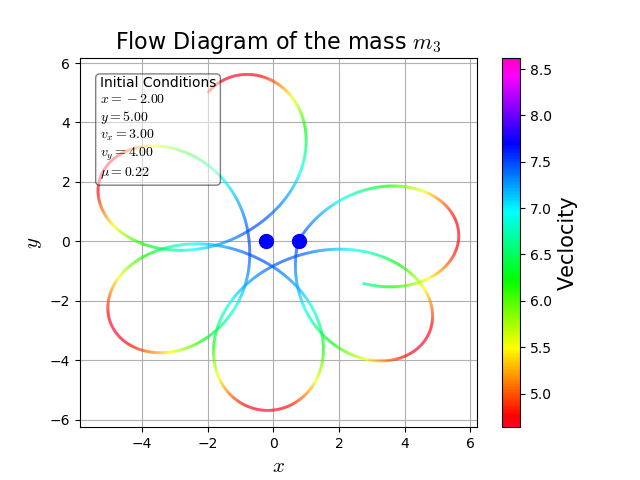
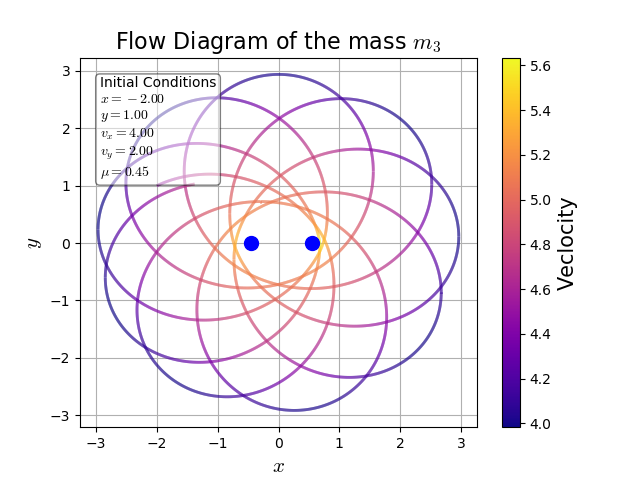
Added time step modifier

diff --git a/Code/Lagrange_GUI.py b/Code/Lagrange_GUI.py
@@ -13,7 +13,9 @@ from tkinter.filedialog import *
 import tkinter.messagebox
 
 cmaps = ['plasma', 'rainbow', 'gist_rainbow']
-cmapType = cmaps[2]
+cmapType = cmaps[0]
+defailtTimeVal = 20
+defailtTimeStepVal = 0.001
 
 class GUI:
     def __init__(self, root):
@@ -108,9 +110,18 @@ class GUI:
 
         global timeVal
         timeVal = StringVar()
-        self.timeVal = ttk.Entry(self.inputFrame, width=10, textvariable=timeVal)
+        self.timeVal = ttk.Entry(self.inputFrame, width=7, textvariable=timeVal)
         self.timeVal.grid(column=1, row=7, padx=(0, 0), sticky=W, pady=(0, 5))
-        timeVal.set(20)
+        timeVal.set(defailtTimeVal)
+
+        self.timeStepLabel = Label(self.inputFrame, text="Step:")
+        self.timeStepLabel.grid(column=1, row=7, padx=(0, 0), pady=(0, 5))
+
+        global timeStepVal
+        timeStepVal = StringVar()
+        self.timeStepVal = ttk.Entry(self.inputFrame, width=7, textvariable=timeStepVal)
+        self.timeStepVal.grid(column=1, row=7, padx=(85, 0), sticky=W, pady=(0, 5))
+        timeStepVal.set(defailtTimeStepVal)
 
         self.PlotNumLabel = Label(self.inputFrame, text="Plots:")
         self.PlotNumLabel.grid(column=0, row=8, padx=(0, 0), pady=(0, 5))
@@ -144,77 +155,95 @@ class GUI:
 
 
     def PlotRandom(self):
-        try:
-            for plot in range(1, int(self.plotNum.get()) + 1):
-                if xHold.get() == 0:
-                    x = random.randint(-5, 5)
-                else:
-                    x = float(self.xVal.get())
-
-                if yHold.get() == 0:
-                    y = random.randint(-5, 5)
-                else:
-                    y = float(self.yVal.get())
-
-                if vxHold.get() == 0:
-                    vx = random.randint(-5, 5)
-                else:
-                    vx = float(self.vxVal.get())
-
-                if vyHold.get() == 0:
-                    vy = random.randint(-5, 5)
-                else:
-                    vy = float(self.vyVal.get())
-
-                if muHold.get() == 0:
-                    mu = round(np.random.uniform(low=0, high=0.49), 2)
-                else:
-                    mu = float(self.muVal.get())
-
-                Orbit([x, y, vx, vy], mu, plotVel.get())
-                plt.savefig("Plots\\" + str(plot) + ".png")
-                print("Plot", str(plot), "saved")
-
-        except ValueError:
+        empty = False
+        if self.muVal.get() == "":
+            empty = True
+            muVal.set(0)
+        if (float(self.muVal.get()) < 0.01 or float(self.muVal.get()) > 0.49) and muHold.get() == 1:
             tkinter.messagebox.showerror("Value Error",
-                                         "An non-integer or float value as entered . Please only use values that are integers or floats.")
+                                             "μ must be between 0.01 and 0.49. Please provide a more appropriate value and try again.")
+        else:
+            try:
+                for plot in range(1, int(self.plotNum.get()) + 1):
+                    if xHold.get() == 0:
+                        x = random.randint(-5, 5)
+                    else:
+                        x = float(self.xVal.get())
+
+                    if yHold.get() == 0:
+                        y = random.randint(-5, 5)
+                    else:
+                        y = float(self.yVal.get())
+
+                    if vxHold.get() == 0:
+                        vx = random.randint(-5, 5)
+                    else:
+                        vx = float(self.vxVal.get())
+
+                    if vyHold.get() == 0:
+                        vy = random.randint(-5, 5)
+                    else:
+                        vy = float(self.vyVal.get())
+
+                    if muHold.get() == 0:
+                        mu = round(np.random.uniform(low=0.01, high=0.49), 2)
+                    else:
+                        mu = float(self.muVal.get())
+
+                    Orbit([x, y, vx, vy], mu, plotVel.get())
+                    plt.savefig("Plots\\" + str(plot) + str(saveFormat.get()))
+                    print("Plot", str(plot), "saved")
+                    if empty:
+                        muVal.set("")
+
+            except ValueError:
+                tkinter.messagebox.showerror("Value Error",
+                                             "A non-integer float value, or no value, has been entered. Please only use values that are integers or floats.")
 
     def PlotValues(self):
-        try:
-            x = float(self.xVal.get())
-            y = float(self.yVal.get())
-            vx = float(self.vxVal.get())
-            vy = float(self.vyVal.get())
-            mu = float(self.muVal.get())
-
-            filePath = asksaveasfilename(title="Save Plot", filetypes=(
-            (str(saveFormat.get())[1:].upper(), "*" + str(saveFormat.get())), ("All files", "*")))
-            if filePath != "":
-                Orbit([x, y, vx, vy], mu, plotVel.get())
-                plt.savefig(str(filePath) + str(saveFormat.get()))
-                print("Plot Saved")
-            else:
-                tkinter.messagebox.showerror("Save Error",
-                                             "There is no file name. Please provide a file name and try again.")
-        except ValueError:
+        if float(self.muVal.get()) < 0.01 or float(self.muVal.get()) > 0.49:
             tkinter.messagebox.showerror("Value Error",
-                                         "An non-integer or float value as entered . Please only use values that are integers or floats.")
+                                         "μ must be between 0.01 and 0.49. Please provide a more appropriate value and try again.")
+        else:
+            try:
+                x = float(self.xVal.get())
+                y = float(self.yVal.get())
+                vx = float(self.vxVal.get())
+                vy = float(self.vyVal.get())
+                mu = float(self.muVal.get())
+
+                filePath = asksaveasfilename(title="Save Plot", filetypes=(
+                (str(saveFormat.get())[1:].upper(), "*" + str(saveFormat.get())), ("All files", "*")))
+                if filePath != "":
+                    Orbit([x, y, vx, vy], mu, plotVel.get())
+                    plt.savefig(str(filePath) + str(saveFormat.get()))
+                    print("Plot Saved")
+                else:
+                    tkinter.messagebox.showerror("Save Error",
+                                                 "There is no file name. Please provide a file name and try again.")
+            except ValueError:
+                tkinter.messagebox.showerror("Value Error",
+                                             "A non-integer float value, or no value, has been entered. Please only use values that are integers or floats.")
 
 
     def PlotPotential(self):
-        try:
-            filePath = asksaveasfilename(title="Save Plot", filetypes=(
-            (str(saveFormat.get())[1:].upper(), "*" + str(saveFormat.get())), ("All files", "*")))
-            if filePath != "":
-                Potential(float(self.muVal.get()), topDown.get())
-                plt.savefig(str(filePath) + str(saveFormat.get()))
-                print("Plot saved")
-            else:
-                tkinter.messagebox.showerror("Save Error",
-                                             "There is no file name. Please provide a file name and try again.")
-        except ValueError:
+        if float(self.muVal.get()) < 0.01 or float(self.muVal.get()) > 0.49:
             tkinter.messagebox.showerror("Value Error",
-                                         "An non-integer or float value as entered . Please only use values that are integers or floats.")
+                                         "μ must be between 0.01 and 0.49. Please provide a more appropriate value and try again.")
+        else:
+            try:
+                filePath = asksaveasfilename(title="Save Plot", filetypes=(
+                (str(saveFormat.get())[1:].upper(), "*" + str(saveFormat.get())), ("All files", "*")))
+                if filePath != "":
+                    Potential(float(self.muVal.get()), topDown.get())
+                    plt.savefig(str(filePath) + str(saveFormat.get()))
+                    print("Plot saved")
+                else:
+                    tkinter.messagebox.showerror("Save Error",
+                                                 "There is no file name. Please provide a file name and try again.")
+            except ValueError:
+                tkinter.messagebox.showerror("Value Error",
+                                             "A non-integer float value, or no value, has been entered. Please only use values that are integers or floats.")
 
 
 
@@ -223,7 +252,7 @@ def ColourConvert(rgb):
 
 def Orbit(initial, mu, velocity):
     #Data for plotting
-    t=np.arange(0.0,timeVal,0.001)  # time steps
+    t=np.arange(0.0,float(timeVal.get()),float(timeStepVal.get()))  # time steps
 
     def motion(state ,t):
         x, y, vx, vy = state  # unpack state vector
@@ -310,7 +339,7 @@ GUI = GUI(root)
 
 root.wm_title("")
 
-root.geometry("180x257")
+root.geometry("180x285")
 
 root.resizable(width=False, height=False)
 
